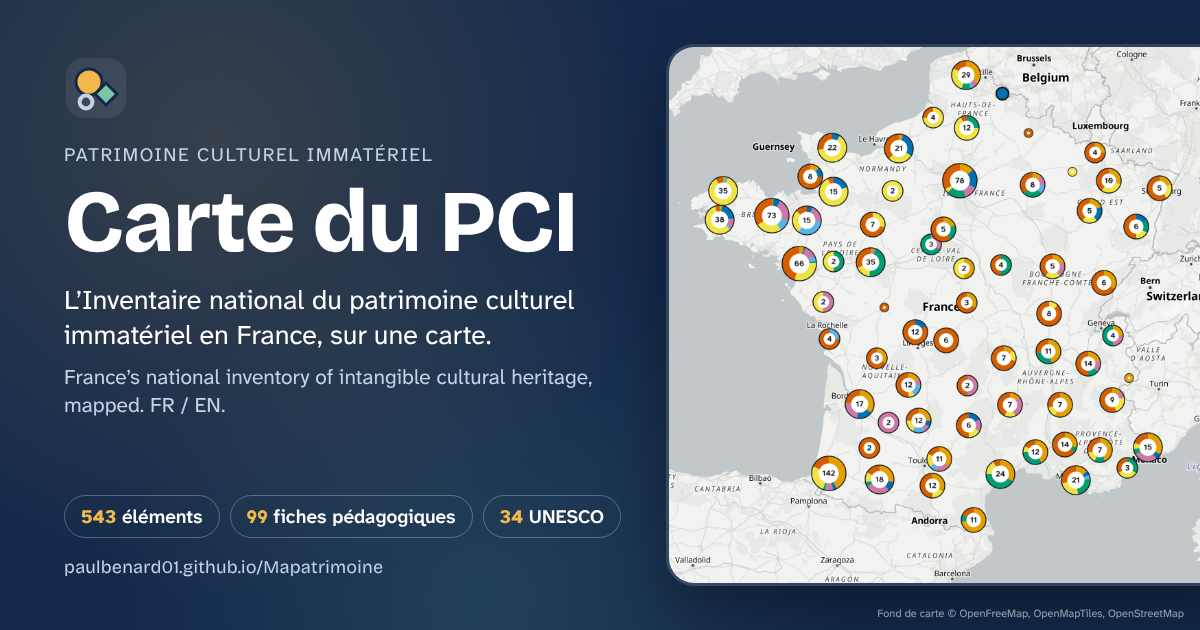
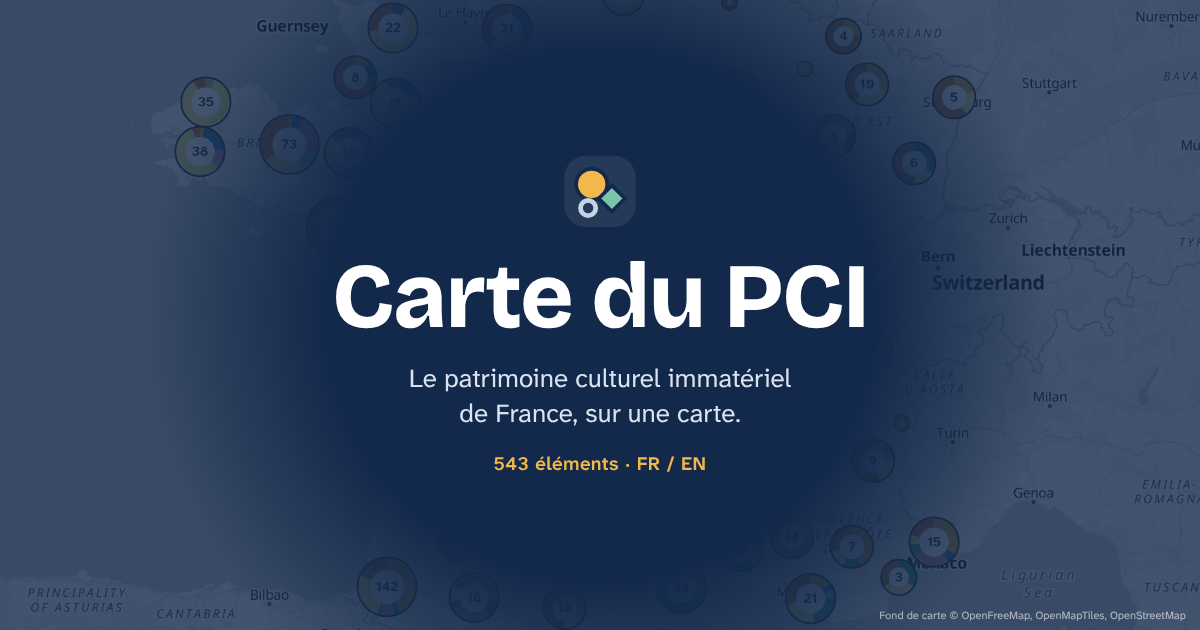
Thumbnail: simpler, centred layout that survives LinkedIn's crop
Claude-Session: https://claude.ai/code/session_01AqnAMrBoKunjqUn9FTHm4o

diff --git a/docs/decisions.md b/docs/decisions.md
@@ -140,5 +140,5 @@ Format: decision. Why. Alternative rejected.
 
 ## Project thumbnail (Paul, 2026-10-10)
 
-- One thumbnail, made from the real map and the brand: `web/public/og-image.png` (1200x630, Open Graph and Twitter tags in `index.html`, so a shared link shows it) and `docs/social-preview.png` (1280x640, top of the README, for the GitHub repository card and the portfolio). `web/scripts/thumbnail.mjs` regenerates both from the running preview; the counts come from the built data and the fonts are the self-hosted ones. The map tiles are credited on the image (OpenFreeMap, OpenMapTiles, OpenStreetMap).
+- One thumbnail, made from the real map and the brand: `web/public/og-image.png` (1200x630, Open Graph and Twitter tags in `index.html`, so a shared link shows it) and `docs/social-preview.png` (1280x640, top of the README, for the GitHub repository card and the portfolio). `web/scripts/thumbnail.mjs` regenerates both from the running preview. The layout is centred and sparse (logo, title, one line, element count, the map faded behind) because LinkedIn crops the sides of link images in some places; the count comes from the built data and the fonts are the self-hosted ones. The map tiles are credited on the image (OpenFreeMap, OpenMapTiles, OpenStreetMap).
 - The Open Graph image URL is absolute (link scrapers need one), so it names the GitHub Pages address.
